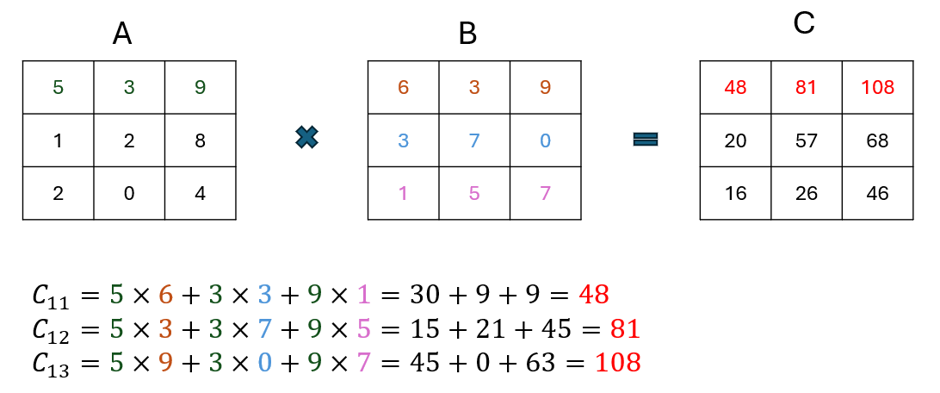
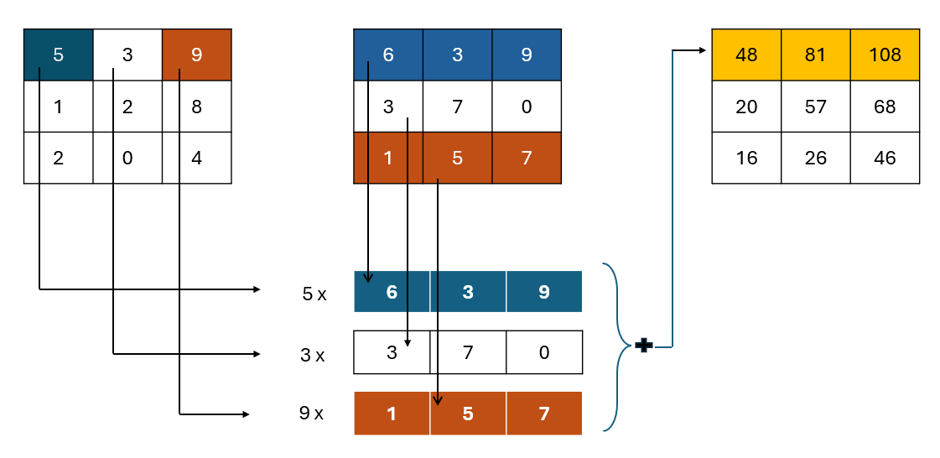
worked on radar documentation

diff --git a/docs/posts/radar/radar.md b/docs/posts/radar/radar.md
@@ -20,6 +20,8 @@ authors:
 ---
 
 # Human Activity and Vital Sign Recognition using Ultra Wide Band Radar
+![title radar](resp.jpg){width="500"}
+
 UWB Radar, a solution to both contact-free respiration monitoring and non-invasive human motion detection.
 
 <!-- more --> 
@@ -28,8 +30,6 @@ Respiratory rate is an essential clinical parameter, often assessed using ECG-ba
 
 Additionally, UWB radar plays a crucial role in human activity detection due to its high-resolution ranging and ability to penetrate walls, while preserving privacy compared to cameras or wearables. It excels in low-visibility environments, ensuring reliable activity monitoring even in darkness.
  
-
-
 
 ??? tip ":trophy: WAMS 2026 Award for Best Student Paper Award in All Tracks"
      To verify go to [WAMS 2026 student awards](https://wams2026.com/student-awards/) and scroll down to S3.
@@ -53,8 +53,92 @@ Additionally, UWB radar plays a crucial role in human activity detection due to 
 
 Let's start with the basics
 
-## What is a Radar?
+## Radar basics
 
+### What is a Radar?
+The word radar comes from the acronym **RA**dio **D**etection **A**nd **R**anging. As the name implies, radars use radio waves to determine the distance and velocity of the targets they hit. A radar system usually consists of a transmitter to send out radio signals and a receiver to catch any reflected energy from targets.
+
+![radar working](propagation.png)
+
+### Early use of radars
+Radars were first used to lift the fog of war. In 1940, Great Britain utilized a network of radar installations known as the **Chain Home system** to provide crucial early warning during the Battle of Britain. By detecting incoming German bombers from as far away as 160 miles, these systems allowed the British to strategically concentrate their Spitfire and Hurricane interceptors against attacking forces.
+
+This timely intelligence helped the British achieve numerical parity and successfully deny Germany the air superiority required for a planned invasion. Consequently, the invasion of Great Britain was postponed indefinitely, securing a vital staging area for the Allies.
+
+### Applications
++ Surveilance
++ Tracking
++ Fire control
++ Target ID/discrimination
++ Ground surveillance/reconnaissance
++ Ground mapping
++ Moving target detection
++ Air traffic control
++ Missile seekers
+
+### Attributes
++ Long range
++ All weather
++ Day/night
++ 3-space target location
++ Reasonably robust against countermeasures
+
+### TDSR P452 radar sensor  
+![P452](p452.jpg){width="100", align="left"}
+
+The P452 UWB Module is an Ultra Wideband radio transceiver designed for precise ranging, communication, and radar applications, featuring high accuracy and low power consumption. It operates using Two-Way Time-of-Flight technology, supports multiple communication protocols, and can function in various radar configurations.<br>
+
+The radar sensor consists of two omnidirectional antennas. We operated the radar in monostatic mode, so one antenna is the transmitter and the other is the receiver. Additionally, it has 2 usb B ports (one for data and the other is for power.), 1 ethernet, and GPIO ports (for API control). 
+
+### Technical Specifications
+![Specs](specs.png)
+
+| Specification | Description                          |
+| ----------- | ------------------------------------ |
+| **Transmitted pulse**      |      Derivative of the Gaussian pulse, specifically a 500ps monocycle waveform as shown below. The waveform starts as a Gaussian pulse but is then filtered to meet the regulatory emissions mask.  |
+| **Pulse duration**     |   1ns |
+| **Pulse repetition frequency**   |     10MHz|
+| **Pulse spectral density** |  -41 dBm/MHz (max) |
+|**Antenna** | planar elliptical dipole Ultra-wideband (UWB) antenna |
+| **Polarisation** |  linear polarisation |
+| **centre frequency** | 4.3GHz |
+| **Bandwidth** | 600MHz, functioning within a range of 4.0 to  4.6GHz |
+| **operating modes** |monostatic (transmitter and receiver are co-located or same antenna), bistatic, or multistatic|
+|Transmitted pulse | ![transmitted pulse](Transmitted_pulse.png)|
+| Received pulse in frequency and time domain | ![pulse freq](pulse_freq.png) |
+
+
+### Working principle
+![TX and RX](TX_RX.png)
+
+Pulse radar systems send out short bursts or pulses of high energy waves followed by long periods of silence, where the receiver is listening for the reflected signal.
+
+![pulse transmission](pulse.png)
+
+1. So the transmitted waveform in pulse radar would look something like in fig 1. Initially, the transmitter is idle and then it transmits the signal for some period (known as pulse width) and then stops. (Note: the illustration assumes the carrier wave contains only 1 frequency component. For P452, the frequency spectrum is spread over from 4.0 to 4.6GHz)
+
+2. Assume the transmitted pulse has frequency of 4.3GHz. Since the transmit frequency is so high, it can be represented as an outline of the amplitude of the signal, as shown in fig 2. This fixed frequency scheme is called a rectangular pulse.
+
+3. In a pulsed radar system, the pulse has to radiate out, reflect off of an object and return to the radar before the next pulse is sent out. This is so that there is no ambiguity as to which pulse the echo belongs to. It's always the pulse that is just sent. But because of this if we want a radar that can operate over long distances, then we need to allow enough time between pulses to account for the speed of light travel to and from the object. In fig. 3 we are sending out a pulse every 0.1μs or with a pulse repetion frequency of 10MHz.
+
+4. Within the maximum umambiguious range, each pulse will have an associated echo pulse. These signals are much weaker than the transmit pulse, as much of the power is lost to the environment, shown in fig. 4.
+
+5. The received signal will look something like in fig.5, as electronics and environment introduce noise into the signal. The range to the object is calculated by determining the round trip distance that light would have travelled in Δt time.
+
+## MRM GUI
+
+### Initial setup
+
+### Data collection
+
+### Controls
+| Field       | Description  | Range| Example |
+| ----------- | ------------------------------------ |
+| `GET`       | :material-check:     Fetch resource  |
+| `PUT`       | :material-check-all: Update resource |
+| `DELETE`    | :material-close:     Delete resource |
+
+## A. Human Activity Signatures
 
 ### Radar Signature
 A radar signature consists of information about characteristic echo signals of a reflecting object (target). Like a fingerprint, it is a way to determine the type of target.
@@ -72,8 +156,9 @@ A radar signature consists of information about characteristic echo signals of a
     Recognition of the hook echo has been around for decades; even before Doppler radar was invented and instituted in forecast offices, forecasters issued tornado warnings solely based on the visual appearance of a hook echo on radar.
 
 
+## B. Respiration rate measurement
 
 
-
-
-
+## Credits
+1. To Prof. Robert M. O'Donnell, MIT Lincoln Laboratory for the lecture series: Introduction to Radar Systems.
+2. To Brian Douglas, Matlab techtalks for the video on Pulse-Doppler Radar.

diff --git a/docs/posts/simd/simd.md b/docs/posts/simd/simd.md
@@ -19,7 +19,9 @@ authors:
     - Jhansi
 ---
 
-# Custom Hardware Accelerator for Matrix Multiplication Using SIMD Processing Element  
+# Custom Hardware Accelerator for Matrix Multiplication Using SIMD Processing Element 
+![title simd](pe_mul.png){width="500"} 
+
 Besides the long title, what does fluid dynamics, convolutional neural networks, and computer graphics all have in common? That's right *matrix multiplications*.<br>
 So, here's one approach to accelerate those computations. :key: Paralellism
 

diff --git a/docs/posts/about/About_me.md b/docs/posts/about/About_me.md
@@ -6,10 +6,9 @@ pin: true
 # Hi there! Glad you chanced upon this page.
 Welcome to my documentation site. Here, you can explore my completed projects, certificates, scores, and ongoing research.  
 
-![JHANSI logo?](logo.png)
-
-
+![JHANSI logo?](logo.png){width="200", align="left"}
 This is me, Jhansi. So the primary objective of this site is to help students 
+Welcome to my documentation site. Here, you can explore my completed projects, certificates, scores, and ongoing research.  
 
 <!-- more --> 
 

diff --git a/docs/Experience/experience.md b/docs/Experience/experience.md
@@ -9,9 +9,9 @@ As a team member, I participated in developing a palm-sized mini drone using the
 
 Duration: Oct 2023 – Apr 2025
 
-![jhansi air](jhansi_air.jpg){width="400", align="left"}
+![jhansi air](jhansi_air.jpg){width="350", align="left"}
 
-![type:video](drone_demo.mp4){align="right"}
+![type:video](drone_demo.mp4){ align="right"}
 
 ---
 

diff --git a/docs/posts/riscv/riscv.md b/docs/posts/riscv/riscv.md
@@ -21,7 +21,7 @@ authors:
 ---
 
 # RISC V CPU Core
-This is the text for my third blog post. 
+![title riscv](risc_block.png){width="500"}
 
 <!-- more --> 
 
